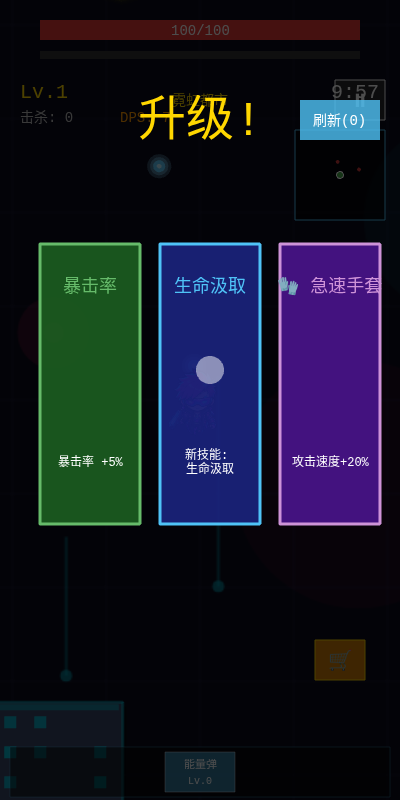
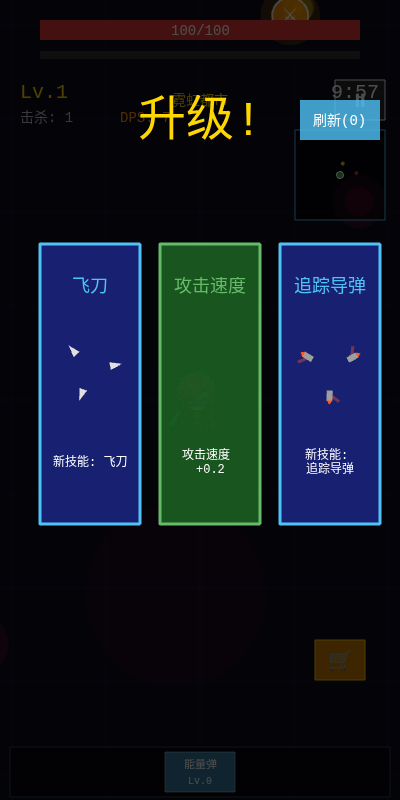
修复图层优先级+升级飞刀特效
1. 修复图层优先级（depth）问题
- 子弹 depth 从 0 改为 8（不会被建筑物遮挡）
- 粒子特效 depth 从 1500 改为 12（不会遮挡UI）
- 浮动文字 depth 从 2000 改为 13（不会遮挡UI）
- 技能特效（飞刀、光环、旋风斩）depth 从 0 改为 8
- 爆炸粒子 depth 从 0 改为 12
- 爆炸圆环 depth 从 0 改为 8
- 闪电特效 depth 从 0 改为 8

修复前的问题：
- 子弹和技能特效会被建筑物遮挡（depth=0 < 建筑物depth=2-3）
- 粒子特效和浮动文字会遮挡UI（depth=1500/2000 > UIdepth=999-1001）

修复后的图层顺序（从下到上）：
- 背景：-10
- 建筑物：1-3
- 敌人子弹：4
- 敌人：5-7
- 玩家子弹/技能特效：8
- 道具/经验球：7-9
- 玩家：9-10
- 粒子特效：12
- 浮动文字：13
- UI：998-1001
- 弹窗：3000-5003

2. 升级飞刀特效
- 增加拖尾效果：记录飞刀历史位置，绘制渐变青色拖尾（8个历史点）
- 增加发光效果：外层青色光晕（两层半透明圆）
- 飞刀更大更锋利：从15像素增加到22像素，6边形形状
- 增加刀刃高光：白色三角形高光
- 增加刀柄：深色矩形刀柄
- 飞刀颜色：青色主题（0x00BCD4），更有科技感和压迫感

自动化测试验证：
✅ 升级界面稳定：5秒内子对象数量736不变
✅ 刷新技能正常
✅ 只有2个404错误（资源加载），没有其他错误
✅ 构建和打包成功

diff --git a/src/scenes/GameScene.js b/src/scenes/GameScene.js
@@ -722,25 +722,70 @@ export class GameScene extends Phaser.Scene {
                 if (knife.x !== undefined) {
                     // 用graphics绘制飞刀（直接计算旋转坐标，不用translate/rotate）
                     if (!knife.graphics) {
-                        knife.graphics = this.add.graphics();
+                        knife.graphics = this.add.graphics().setDepth(8);
                     }
                     knife.graphics.clear();
+                    
+                    // 1. 绘制拖尾效果
+                    if (knife.trail && knife.trail.length > 1) {
+                        for (let i = 0; i < knife.trail.length - 1; i++) {
+                            const alpha = (i / knife.trail.length) * 0.4;
+                            const width = 2 + (i / knife.trail.length) * 3;
+                            knife.graphics.lineStyle(width, 0x00BCD4, alpha);
+                            knife.graphics.lineBetween(knife.trail[i].x, knife.trail[i].y, knife.trail[i+1].x, knife.trail[i+1].y);
+                        }
+                    }
+                    
+                    // 2. 绘制发光效果（外层光晕）
+                    knife.graphics.fillStyle(0x00BCD4, 0.15);
+                    knife.graphics.fillCircle(knife.x, knife.y, 18);
+                    knife.graphics.fillStyle(0x00BCD4, 0.25);
+                    knife.graphics.fillCircle(knife.x, knife.y, 12);
+                    
+                    // 3. 绘制更锋利的飞刀形状
                     const angle = Math.atan2(knife.y - this.player.y, knife.x - this.player.x);
                     const cos = Math.cos(angle), sin = Math.sin(angle);
                     const rotatePoint = (px, py) => ({
                         x: knife.x + (px * cos - py * sin),
                         y: knife.y + (px * sin + py * cos)
                     });
-                    const p1 = rotatePoint(15, 0);
-                    const p2 = rotatePoint(0, 5);
-                    const p3 = rotatePoint(-8, 0);
-                    const p4 = rotatePoint(0, -5);
-                    knife.graphics.fillStyle(0xE0E0E0, 1);
+                    // 飞刀主体（更大更锋利）
+                    const p1 = rotatePoint(22, 0);    // 刀尖
+                    const p2 = rotatePoint(5, 7);     // 右上
+                    const p3 = rotatePoint(-10, 5);   // 右下
+                    const p4 = rotatePoint(-12, 0);   // 刀尾
+                    const p5 = rotatePoint(-10, -5);  // 左下
+                    const p6 = rotatePoint(5, -7);    // 左上
+                    // 刀身（银色渐变效果用多层填充模拟）
+                    knife.graphics.fillStyle(0x607D8B, 1);
                     knife.graphics.beginPath();
                     knife.graphics.moveTo(p1.x, p1.y);
                     knife.graphics.lineTo(p2.x, p2.y);
                     knife.graphics.lineTo(p3.x, p3.y);
                     knife.graphics.lineTo(p4.x, p4.y);
+                    knife.graphics.lineTo(p5.x, p5.y);
+                    knife.graphics.lineTo(p6.x, p6.y);
+                    knife.graphics.closePath();
+                    knife.graphics.fillPath();
+                    // 刀刃高光（白色）
+                    knife.graphics.fillStyle(0xFFFFFF, 0.7);
+                    knife.graphics.beginPath();
+                    knife.graphics.moveTo(p1.x, p1.y);
+                    knife.graphics.lineTo(p2.x, p2.y);
+                    knife.graphics.lineTo(0, 0);
+                    knife.graphics.closePath();
+                    knife.graphics.fillPath();
+                    // 刀柄（深色）
+                    const h1 = rotatePoint(-12, 3);
+                    const h2 = rotatePoint(-18, 2);
+                    const h3 = rotatePoint(-18, -2);
+                    const h4 = rotatePoint(-12, -3);
+                    knife.graphics.fillStyle(0x37474F, 1);
+                    knife.graphics.beginPath();
+                    knife.graphics.moveTo(h1.x, h1.y);
+                    knife.graphics.lineTo(h2.x, h2.y);
+                    knife.graphics.lineTo(h3.x, h3.y);
+                    knife.graphics.lineTo(h4.x, h4.y);
                     knife.graphics.closePath();
                     knife.graphics.fillPath();
                 }
@@ -750,7 +795,7 @@ export class GameScene extends Phaser.Scene {
         // 光环
         const auraSkill = this.player.getSkill('灼烧光环');
         if (auraSkill && auraSkill.level > 0) {
-            if (!this.auraGraphics) this.auraGraphics = this.add.graphics();
+            if (!this.auraGraphics) this.auraGraphics = this.add.graphics().setDepth(8);
             this.auraGraphics.clear();
             this.auraGraphics.lineStyle(3, 0xFF6D00, 0.6);
             this.auraGraphics.strokeCircle(this.player.x, this.player.y, auraSkill.radius);
@@ -765,7 +810,7 @@ export class GameScene extends Phaser.Scene {
         if (whirlSkill && whirlSkill.level > 0) {
             for (const blade of whirlSkill.blades) {
                 if (blade.x !== undefined) {
-                    if (!blade.graphics) blade.graphics = this.add.graphics();
+                    if (!blade.graphics) blade.graphics = this.add.graphics().setDepth(8);
                     blade.graphics.clear();
                     const angle = Math.atan2(blade.y - this.player.y, blade.x - this.player.x) + Math.PI / 2;
                     const cos = Math.cos(angle), sin = Math.sin(angle);
@@ -986,7 +1031,7 @@ export class GameScene extends Phaser.Scene {
                 size: 4 + Math.random() * 5,
                 life: 0.4 + Math.random() * 0.3,
                 maxLife: 0.7,
-                graphics: this.add.circle(x, y, 4, color, 0.8)
+                graphics: this.add.circle(x, y, 4, color, 0.8).setDepth(12)
             });
         }
         this.cameras.main.shake(100, 0.008);
@@ -1002,7 +1047,7 @@ export class GameScene extends Phaser.Scene {
                 continue;
             }
             if (!exp.graphics) {
-                exp.graphics = this.add.graphics();
+                exp.graphics = this.add.graphics().setDepth(8);
             }
             const progress = 1 - exp.life / exp.maxLife;
             const r = exp.radius * progress;
@@ -1024,7 +1069,7 @@ export class GameScene extends Phaser.Scene {
                 this.lightningBolts.splice(i, 1);
                 continue;
             }
-            if (!bolt.graphics) bolt.graphics = this.add.graphics();
+            if (!bolt.graphics) bolt.graphics = this.add.graphics().setDepth(8);
             const alpha = bolt.life / bolt.maxLife;
             bolt.graphics.clear();
             bolt.graphics.lineStyle(3, bolt.color, alpha);
@@ -1055,9 +1100,9 @@ export class GameScene extends Phaser.Scene {
             // 优先用贴图，失败则回退到circle
             let graphics;
             if (this.particleTexturesLoaded && this.textures.exists(texKey)) {
-                graphics = this.add.image(x, y, texKey).setDepth(1500).setTint(0xFFFF00);
+                graphics = this.add.image(x, y, texKey).setDepth(12).setTint(0xFFFF00);
             } else {
-                graphics = this.add.circle(x, y, 3, 0xFFFF00, 0.8).setDepth(1500);
+                graphics = this.add.circle(x, y, 3, 0xFFFF00, 0.8).setDepth(12);
             }
             this.particles.push({
                 x, y,
@@ -1102,7 +1147,7 @@ export class GameScene extends Phaser.Scene {
             fontWeight: 'bold',
             stroke: isCrit ? '#000000' : null,
             strokeThickness: isCrit ? 3 : 0
-        }).setDepth(2000).setOrigin(0.5);
+        }).setDepth(13).setOrigin(0.5);
         
         // 暴击数字：更大、带描边、弹出动画
         if (isCrit) {
@@ -1241,10 +1286,10 @@ export class GameScene extends Phaser.Scene {
             let graphics;
             let useTexture = false;
             if (this.particleTexturesLoaded && this.textures.exists(texKey)) {
-                graphics = this.add.image(enemy.x, enemy.y, texKey).setDepth(1500).setTint(color);
+                graphics = this.add.image(enemy.x, enemy.y, texKey).setDepth(12).setTint(color);
                 useTexture = true;
             } else {
-                graphics = this.add.circle(enemy.x, enemy.y, size/3, color, 0.9).setDepth(1500);
+                graphics = this.add.circle(enemy.x, enemy.y, size/3, color, 0.9).setDepth(12);
             }
             this.particles.push({
                 x: enemy.x, y: enemy.y,

diff --git a/src/skills/Skills.js b/src/skills/Skills.js
@@ -120,10 +120,11 @@ export class KnifeSkill extends Skill {
         super.update(player, scene, dt);
         // 维护环绕飞刀数量
         while (this.orbitingKnives.length < this.knifeCount) {
-            this.orbitingKnives.push({ hitEnemies: new Set() });
+            this.orbitingKnives.push({ hitEnemies: new Set(), trail: [] });
         }
         while (this.orbitingKnives.length > this.knifeCount) {
-            this.orbitingKnives.pop();
+            const removed = this.orbitingKnives.pop();
+            if (removed.graphics) removed.graphics.destroy();
         }
         // 更新基础旋转角度
         this.baseAngle += this.rotationSpeed * dt;
@@ -133,6 +134,10 @@ export class KnifeSkill extends Skill {
             const angle = this.baseAngle + (i / this.knifeCount) * Math.PI * 2;
             const kx = player.x + Math.cos(angle) * this.orbitRadius;
             const ky = player.y + Math.sin(angle) * this.orbitRadius;
+            // 记录历史位置用于拖尾
+            if (!knife.trail) knife.trail = [];
+            knife.trail.push({ x: kx, y: ky });
+            if (knife.trail.length > 8) knife.trail.shift();
             knife.x = kx; knife.y = ky;
             // 碰撞敌人
             for (const e of scene.enemies) {

diff --git a/src/entities/Bullet.js b/src/entities/Bullet.js
@@ -27,8 +27,8 @@ export class Bullet {
         this.color = this.colors[type] || this.colors.energy;
         
         // 创建图形
-        this.graphics = scene.add.graphics();
-        this.glow = scene.add.circle(x, y, this.radius * 2, this.color.glow, 0.3);
+        this.graphics = scene.add.graphics().setDepth(8);
+        this.glow = scene.add.circle(x, y, this.radius * 2, this.color.glow, 0.3).setDepth(7);
         this.drawBullet();
     }
     
